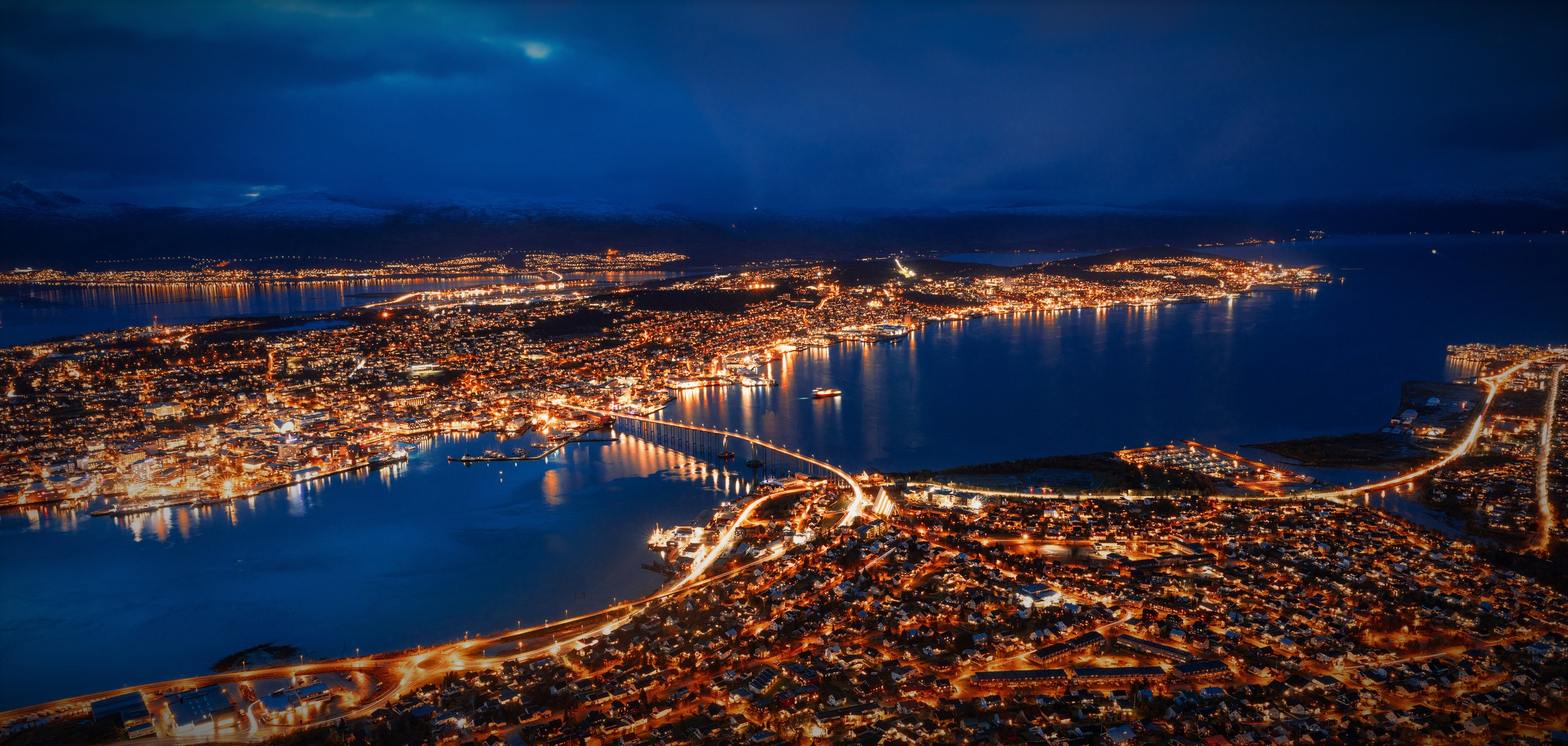
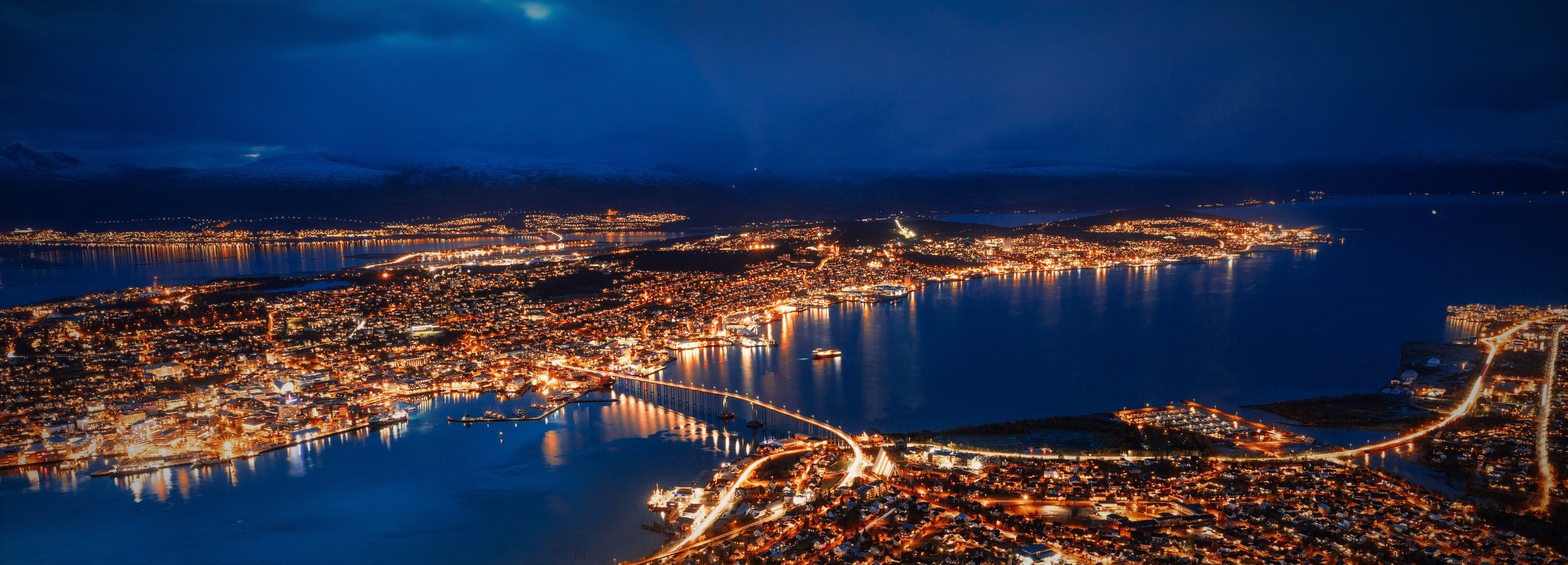
调整图像尺寸优化显示效果，post的文章使用自定义图片

diff --git a/tags.html b/tags.html
@@ -2,7 +2,7 @@
 title: Tags
 layout: default
 description: "与你相遇好幸运"
-header-img: "img/tag-bg/tag-bg-01.jpg"
+header-img: "img/tag-bg/tag-bg-02.jpg"
 ---
 
 <!-- Page Header -->
